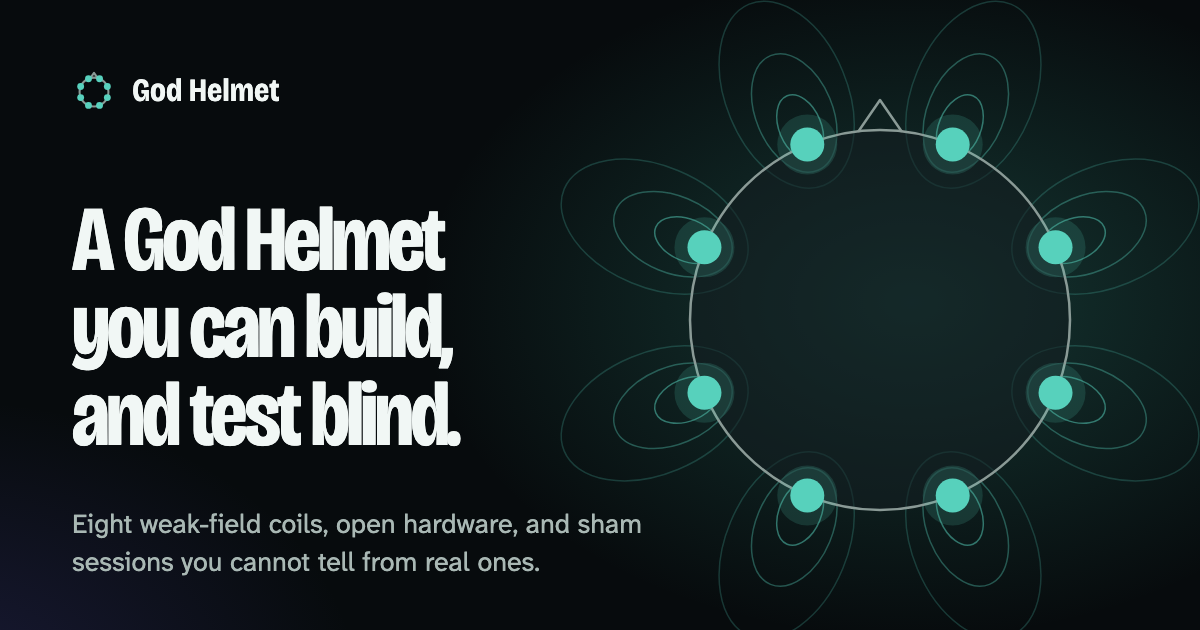
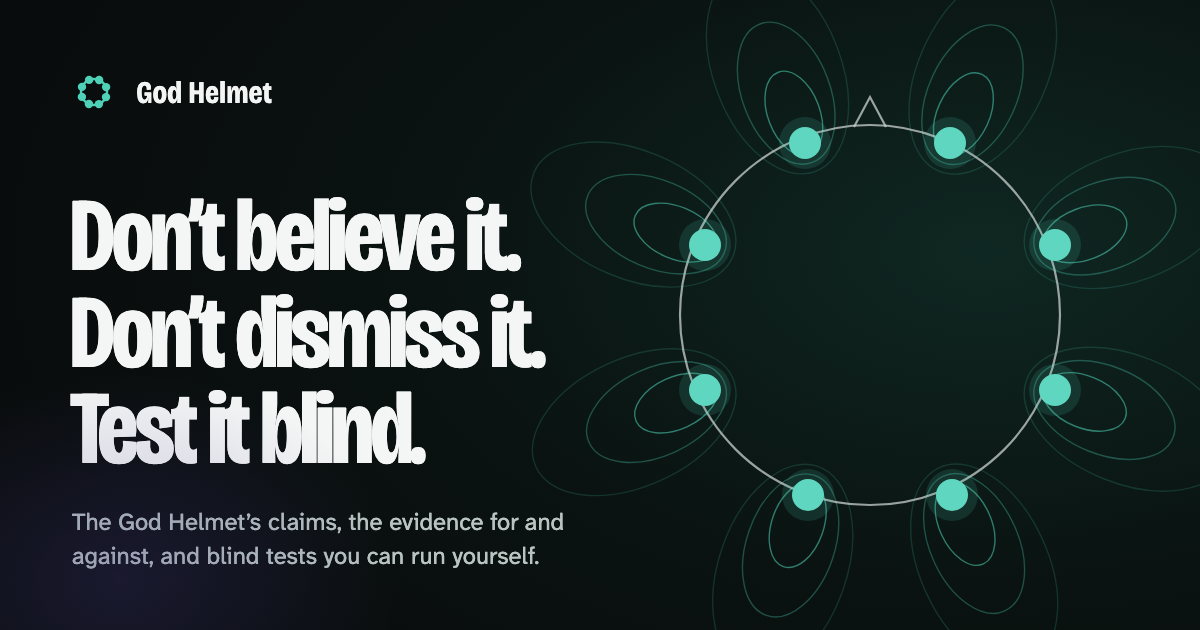
Landing page: an invitation to test the claims
- New headline: "Don't believe it. Don't dismiss it. Test it blind."
  The paragraph under it says what Persinger's laboratory reported, what
  the best independent test found, and that the reader can check the
  claims with sealed targets and sham sessions. The buttons are "Test a
  claim" and "Read the claims"; "How to build one" is gone with the
  hardware pages.
- The "Honest expectations" section is removed. In its place, "Test a
  claim yourself": three tests that run in the demo with no hardware
  (mind over random numbers, a picture sealed in advance, the
  ganzfeld), each with its drawing, what it needs and a link straight
  into the guide, and "What makes it a test" in four steps.
- Section headings and texts lead to the tests: "The tools for a fair
  test", "What is claimed", every claim article "ends with a test you
  can run"; the closing button is "Choose a test".
- The page title and the social preview image carry the new headline.

diff --git a/site/app/pages/index.vue b/site/app/pages/index.vue
@@ -10,9 +10,42 @@ const background = computed(() => (articles.value ?? []).filter((a) => a.group !
 const { data: lib } = await useFetch<{ programs: number, guides: number, names: string[] }>('/library.json')
 
 useSeoMeta({
-  description: 'An open, DIY recreation of the Persinger and Koren God Helmet: eight weak-field coils, an ESP32, programs rebuilt from the literature, and blinded sham sessions to test what they do.',
-  ogTitle: 'God Helmet: a weak-field helmet you can build, and test blind',
+  description: 'What the God Helmet was said to do, from a sensed presence to telepathy and remote viewing, the evidence for and against, and an app to test the claims yourself: targets sealed in advance, blind real-or-sham sessions, and a demo that needs no hardware.',
+  ogTitle: 'God Helmet: don’t believe it, don’t dismiss it, test it blind',
 })
+
+// Tests anyone can run today in the demo, without a helmet.
+const tests: { scene: SceneId, title: string, text: string, needs: string, to: string }[] = [
+  {
+    scene: 'micro-pk',
+    title: 'Mind over random numbers',
+    text: 'Aim a random generator high, then low, in blocks of a thousand bits. A control block comes first, and the high and low blocks are compared, so a biased generator cannot fake a result.',
+    needs: 'Alone, about 25 minutes, nothing to prepare',
+    to: '/app/guides/rng-pk',
+  },
+  {
+    scene: 'remote-viewing',
+    title: 'A picture sealed in advance',
+    text: 'The app picks a picture from your own pool and seals the choice before you start. You describe and sketch it, lock your answer, rank the pictures blind, and only then see the target.',
+    needs: 'Alone, about 40 minutes; add a few sets of pictures first',
+    to: '/app/guides/photo-target-trial',
+  },
+  {
+    scene: 'ganzfeld',
+    title: 'The ganzfeld',
+    text: 'The classic psi test: eyes covered, steady noise in the headphones, half an hour of saying what comes to mind, then a blind ranking of the pictures. Questions on belief and mood before and after.',
+    needs: 'Alone, about an hour, headphones; add pictures first',
+    to: '/app/guides/psi-trial-flow',
+  },
+]
+
+// What turns a session into a test. A sequence: the order matters.
+const rules: { title: string, text: string }[] = [
+  { title: 'Decide first', text: 'How many trials, and what counts as a hit. Write it down before the first one.' },
+  { title: 'Let the app hide the answer', text: 'The target is chosen and sealed before you start, and the seal can be checked afterwards.' },
+  { title: 'Answer, then look', text: 'Lock your response or rate the session before anything is revealed.' },
+  { title: 'Compare with chance', text: 'One hit proves nothing. The app shows how often chance alone would do as well, and keeps the misses too.' },
+]
 
 // The method behind every article: what the record says in a sentence or two,
 // and where the site goes into it.
@@ -26,8 +59,6 @@ const claims: { scene: SceneId, kind: string, title: string, text: string, to: s
     more: 'How to run a blinded series',
   },
 ]
-
-const EXPECT = 'The fields are about 1–8 µT at the cortex, about a million times weaker than TMS, and the induced electric field is microvolts to millivolts per metre. The best double-blind test (Granqvist 2005, N = 89) found no effect of the field; suggestibility predicted the experiences.'
 
 const verified = ['All five firmware targets build', 'Host unit tests pass', 'The JavaScript engine reproduces the C++ engine’s output for every program', 'Protocol, blind reveal and trial commitment logic are tested against the demo helmet']
 const unverified = ['Bluetooth with a real phone', 'The DAC module’s transfer function', 'SPI and LDAC timing', 'The coils’ real µT per mA']
@@ -62,21 +93,40 @@ const unverified = ['Bluetooth with a real phone', 'The DAC module’s transfer 
       <HomeMarquee v-if="lib?.names.length" :names="lib.names" class="mt-12" />
     </section>
 
-    <!-- Honest expectations: said early, in the project's own words. -->
-    <UContainer as="section" class="py-24 lg:py-40" aria-labelledby="expect">
-      <h2 id="expect" class="font-sans text-base font-semibold tracking-normal text-primary [font-stretch:100%]">Honest expectations</h2>
-      <HomeScrubText :text="EXPECT" class="mt-6 max-w-[26ch] font-display text-[clamp(1.9rem,4.6vw,4rem)] font-[620] leading-[1.08] text-highlighted sm:max-w-[30ch] lg:max-w-[34ch]" />
-      <div v-reveal class="mt-10 grid gap-6 border-t border-(--hairline) pt-8 lg:grid-cols-[minmax(0,6fr)_minmax(0,5fr)]">
-        <p class="text-lg text-toned measure">That is why the blinding is built into the helmet and not left to the person wearing it: so that what you find out is about the field, and not about what you hoped for.</p>
-        <p class="lg:justify-self-end"><UButton to="/articles/research" size="lg" trailing-icon="i-lucide-arrow-right">Read the evidence review</UButton></p>
-      </div>
-    </UContainer>
+    <!-- An invitation: tests that need no hardware, and what makes them count. -->
+    <section id="test" class="scroll-mt-20 border-b border-(--hairline)" aria-labelledby="test-now">
+      <UContainer class="py-24 lg:py-36">
+        <div class="max-w-3xl">
+          <h2 id="test-now" class="text-4xl sm:text-5xl">Test a claim yourself</h2>
+          <p class="mt-5 text-lg text-toned measure">Three tests you can run in the demo today, without any hardware. Whether you expect a hit or are sure there is nothing to find, the result is the same kind of number, and it is yours.</p>
+        </div>
+        <div v-reveal class="mt-10 grid gap-4 lg:grid-cols-3" data-test="tests">
+          <NuxtLink v-for="t in tests" :key="t.to" v-spotlight data-reveal-item :to="t.to" class="panel group flex flex-col gap-4 p-7 sm:p-8">
+            <ArtScene :name="t.scene" class="mx-auto mb-1 max-w-88 text-highlighted" />
+            <h3 class="text-[1.9rem] transition-colors group-hover:text-primary">{{ t.title }}</h3>
+            <p class="text-toned">{{ t.text }}</p>
+            <p class="mt-auto pt-2 text-sm text-muted">{{ t.needs }}</p>
+            <p class="flex items-center gap-1.5 text-sm font-semibold text-primary">Start this test<UIcon name="i-lucide-arrow-right" class="size-4 transition-transform group-hover:translate-x-0.5" /></p>
+          </NuxtLink>
+        </div>
+        <p class="mt-5 text-toned">Or start with the <NuxtLink to="/app/guides/forced-choice-trainer" class="text-primary underline underline-offset-4">ten-choice trainer</NuxtLink>: 25 guesses with feedback after each one, in under 20 minutes. With a helmet, two people can run the telepathy test, and the same app runs real against sham.</p>
+
+        <h3 class="mt-16 text-3xl">What makes it a test</h3>
+        <ol class="mt-6 grid gap-x-8 gap-y-6 border-t border-(--hairline) pt-6 sm:grid-cols-2 lg:grid-cols-4">
+          <li v-for="(r, i) in rules" :key="r.title">
+            <p class="num text-sm text-muted">{{ i + 1 }}</p>
+            <h4 class="mt-1 font-sans text-lg font-semibold text-highlighted">{{ r.title }}</h4>
+            <p class="mt-2 text-toned">{{ r.text }}</p>
+          </li>
+        </ol>
+      </UContainer>
+    </section>
 
     <!-- What you can do with it: each tile runs the real thing, small. -->
-    <UContainer as="section" class="pb-24 lg:pb-36" aria-labelledby="uses">
+    <UContainer as="section" class="py-24 lg:py-36" aria-labelledby="uses">
       <div class="max-w-3xl">
-        <h2 id="uses" class="text-4xl sm:text-5xl">What you can do with it</h2>
-        <p class="mt-5 text-lg text-toned measure">Everything here runs in the demo too, with the helmet’s engine in your browser and nothing switched on.</p>
+        <h2 id="uses" class="text-4xl sm:text-5xl">The tools for a fair test</h2>
+        <p class="mt-5 text-lg text-toned measure">Everything here also runs in the demo, with the helmet’s engine in your browser and nothing switched on.</p>
       </div>
 
       <div v-reveal class="mt-10 grid gap-4 lg:grid-cols-12">
@@ -135,8 +185,8 @@ const unverified = ['Bluetooth with a real phone', 'The DAC module’s transfer 
       <UContainer class="py-20 lg:py-32">
         <div class="flex flex-wrap items-end justify-between gap-6">
           <div class="max-w-2xl">
-            <h2 id="read" class="text-4xl sm:text-5xl">The effects people ask about</h2>
-            <p class="mt-5 text-lg text-toned measure">What is reported, what the laboratory record says, what happened when others tried, and how to test each one with this helmet.</p>
+            <h2 id="read" class="text-4xl sm:text-5xl">What is claimed</h2>
+            <p class="mt-5 text-lg text-toned measure">What people report, what the laboratory record says, what happened when others tried, and a test you can run for each one.</p>
           </div>
           <UButton to="/articles" size="lg" variant="ghost" trailing-icon="i-lucide-arrow-right">All articles</UButton>
         </div>
@@ -146,7 +196,7 @@ const unverified = ['Bluetooth with a real phone', 'The DAC module’s transfer 
         <!-- The claims that go further, one research article each. -->
         <div class="mt-16 max-w-2xl">
           <h3 id="claims" class="text-3xl sm:text-4xl">Six claims that go further</h3>
-          <p class="mt-4 text-lg text-toned measure">Each is one laboratory’s report, or an effect that gets smaller as the controls get tighter. Every article sets out the record, the best case for and against, and what a fair test would need.</p>
+          <p class="mt-4 text-lg text-toned measure">Each rests on one laboratory’s report, or on an effect that shrinks as the controls get tighter. Every article gives the best case for and against, and ends with a test you can run.</p>
         </div>
         <div v-reveal class="mt-8 grid gap-4 lg:grid-cols-3" data-test="claim-articles">
           <ArticleCard v-for="a in claimed" :key="a.path" data-reveal-item :article="a" large />
@@ -182,9 +232,9 @@ const unverified = ['Bluetooth with a real phone', 'The DAC module’s transfer 
     <UContainer as="section" class="py-20 lg:py-28" aria-labelledby="build">
       <div class="max-w-3xl">
         <h2 id="build" class="text-4xl sm:text-5xl">The hardware comes later</h2>
-        <p class="mt-5 text-lg text-toned measure">The control box and the headband are still being tested. The schematic, the parts list and the build guide will be published here once a complete helmet has been built and measured. Until then the app, every program and the blind tests can be tried in Demo mode, without any hardware.</p>
+        <p class="mt-5 text-lg text-toned measure">The control box and the headband are still being tested. The schematic, the parts list and the build guide will be published here once a complete helmet has been built and measured. Until then the trials, the guides and the random-number test all run in the demo, without any hardware.</p>
         <div class="mt-7 flex flex-wrap gap-2">
-          <UButton to="/app/programs">Open the app in Demo mode</UButton>
+          <UButton to="#test">Test a claim</UButton>
           <UButton to="/docs/safety" variant="ghost">Read the safety page</UButton>
         </div>
       </div>
@@ -225,9 +275,9 @@ const unverified = ['Bluetooth with a real phone', 'The DAC module’s transfer 
     <section class="closing" aria-labelledby="closing">
       <UContainer class="relative py-28 text-center lg:py-44">
         <h2 id="closing" v-reveal class="mx-auto max-w-[12ch] text-[clamp(3rem,9vw,8rem)] font-[660] leading-[0.92] tracking-[-0.04em] [font-stretch:78%]">Find out for yourself.</h2>
-        <p class="mx-auto mt-8 max-w-xl text-lg text-toned">Open the demo, pick a program, and run it blind. It takes two minutes and no hardware.</p>
+        <p class="mx-auto mt-8 max-w-xl text-lg text-toned">Pick a claim, decide what would convince you, and test it blind. Nothing to install, no hardware.</p>
         <div class="mt-9 flex flex-wrap justify-center gap-3">
-          <UButton to="/app/programs" color="primary" variant="solid" size="xl" trailing-icon="i-lucide-arrow-right" class="px-7">Try it in the demo</UButton>
+          <UButton to="/app/guides" color="primary" variant="solid" size="xl" trailing-icon="i-lucide-arrow-right" class="px-7">Choose a test</UButton>
           <UButton to="https://github.com/Polobase/god-helmet" target="_blank" size="xl" variant="ghost" class="px-5">Get the source</UButton>
         </div>
       </UContainer>

diff --git a/site/app/components/home/Hero.vue b/site/app/components/home/Hero.vue
@@ -68,21 +68,22 @@ onBeforeUnmount(stop)
 
     <UContainer class="relative flex min-h-[inherit] flex-col justify-center pb-[31rem] pt-16 lg:pb-36 lg:pt-20">
       <div class="max-w-[44rem]">
-        <p class="kicker"><span class="live-dot" aria-hidden="true" />Open hardware, open evidence</p>
+        <p class="kicker"><span class="live-dot" aria-hidden="true" />Open evidence, blind tests</p>
         <h1 class="headline">
-          <span class="line" style="--i: 0"><span>A God Helmet</span></span>
-          <span class="line" style="--i: 1"><span>you can build,</span></span>
-          <span class="line" style="--i: 2"><span>and test blind.</span></span>
+          <span class="line" style="--i: 0"><span>Don’t believe it.</span></span>
+          <span class="line" style="--i: 1"><span>Don’t dismiss it.</span></span>
+          <span class="line" style="--i: 2"><span>Test it blind.</span></span>
         </h1>
         <p class="lede">
-          Eight weak-field coils on a headband, an ESP32, and this app. It plays the signals Persinger’s laboratory and its imitators used,
-          and gives you sham sessions you cannot tell apart from real ones, so you can find out whether the field does anything to you.
+          Persinger’s laboratory reported a sense of presence, out-of-body experiences, even telepathy under a weak magnetic field.
+          The best independent test found that suggestibility, not the field, predicted the presence.
+          Check the claims yourself: targets sealed before you answer, sham sessions you cannot tell from real ones.
         </p>
         <div class="mt-9 flex flex-wrap items-center gap-x-4 gap-y-3">
-          <UButton to="/app/programs" color="primary" variant="solid" size="xl" trailing-icon="i-lucide-arrow-right" class="px-6">Try it in the demo</UButton>
-          <UButton to="/docs/overview" size="xl" variant="ghost" class="px-5">How to build one</UButton>
+          <UButton to="#test" color="primary" variant="solid" size="xl" trailing-icon="i-lucide-arrow-down" class="px-6">Test a claim</UButton>
+          <UButton to="/articles" size="xl" variant="ghost" class="px-5">Read the claims</UButton>
         </div>
-        <p class="mt-4 text-sm text-muted">The demo runs the helmet’s engine in your browser. No hardware, nothing to install.</p>
+        <p class="mt-4 text-sm text-muted">No hardware needed: the demo runs the helmet’s engine in your browser.</p>
       </div>
     </UContainer>
 

diff --git a/site/e2e/site.spec.ts b/site/e2e/site.spec.ts
@@ -15,13 +15,17 @@ test('landing page: headline, live hero, numbers from the files', async ({ page 
   page.on('pageerror', (e) => errors.push(String(e)))
   page.on('console', (m) => m.type() === 'error' && errors.push(m.text()))
   await page.goto('/')
-  await expect(page.getByRole('heading', { level: 1 })).toContainText('A God Helmet')
+  await expect(page.getByRole('heading', { level: 1 })).toContainText('Test it blind')
   await expect(page.locator('section canvas').first()).toBeVisible()
-  await expect(page.getByRole('link', { name: 'Try it in the demo' }).first()).toHaveAttribute('href', '/app/programs')
+  await expect(page.getByRole('link', { name: 'Test a claim' }).first()).toHaveAttribute('href', '#test')
+  // Three tests that need no hardware, each straight into its guide.
+  const tests = page.locator('[data-test="tests"]')
+  await expect(tests.getByRole('link')).toHaveCount(3)
+  for (const id of ['rng-pk', 'photo-target-trial', 'psi-trial-flow']) await expect(tests.locator(`a[href="/app/guides/${id}"]`), id).toHaveCount(1)
   const lib = await (await page.request.get('/library.json')).json()
   expect(lib.programs).toBe(PROGRAMS.size)
   expect(lib.guides).toBe(GUIDES.size)
-  await page.getByRole('heading', { name: 'What you can do with it' }).scrollIntoViewIfNeeded()
+  await page.getByRole('heading', { name: 'The tools for a fair test' }).scrollIntoViewIfNeeded()
   await expect(page.getByRole('heading', { name: `${PROGRAMS.size} programs` })).toBeVisible()
   expect(errors).toEqual([])
 })
@@ -36,7 +40,7 @@ test('landing page on a phone @phone', async ({ page }) => {
 test('the effects section: a drawing for each effect, moving only while it is on screen', async ({ page }) => {
   await page.goto('/')
   const section = page.locator('section[aria-labelledby="read"]')
-  await section.getByRole('heading', { name: 'The effects people ask about' }).scrollIntoViewIfNeeded()
+  await section.getByRole('heading', { name: 'What is claimed' }).scrollIntoViewIfNeeded()
   for (const name of ['presence', 'obe', 'remote-viewing', 'telepathy', 'ring', 'linked', 'reach', 'geomagnetic', 'micro-pk', 'blind']) await expect(section.locator(`svg[data-scene="${name}"]`), name).toHaveCount(1)
   // Six claims with a research article each, and the method that goes with all of them.
   const articles = section.locator('[data-test="claim-articles"]')

diff --git a/site/app/app.vue b/site/app/app.vue
@@ -2,7 +2,7 @@
 const route = useRoute()
 const siteUrl = String(useRuntimeConfig().public.siteUrl ?? '').replace(/\/$/, '')
 useHead({
-  titleTemplate: (title) => (title ? `${title} · God Helmet` : 'God Helmet: a weak-field helmet you can build, and test blind'),
+  titleTemplate: (title) => (title ? `${title} · God Helmet` : 'God Helmet: don’t believe it, don’t dismiss it, test it blind'),
   link: () => (siteUrl && !route.path.startsWith('/app') ? [{ rel: 'canonical', href: siteUrl + (route.path === '/' ? '/' : route.path.replace(/\/$/, '')) }] : []),
 })
 useSeoMeta({ ogSiteName: 'God Helmet', twitterCard: 'summary_large_image', ogImage: `${siteUrl}/og.png` })
